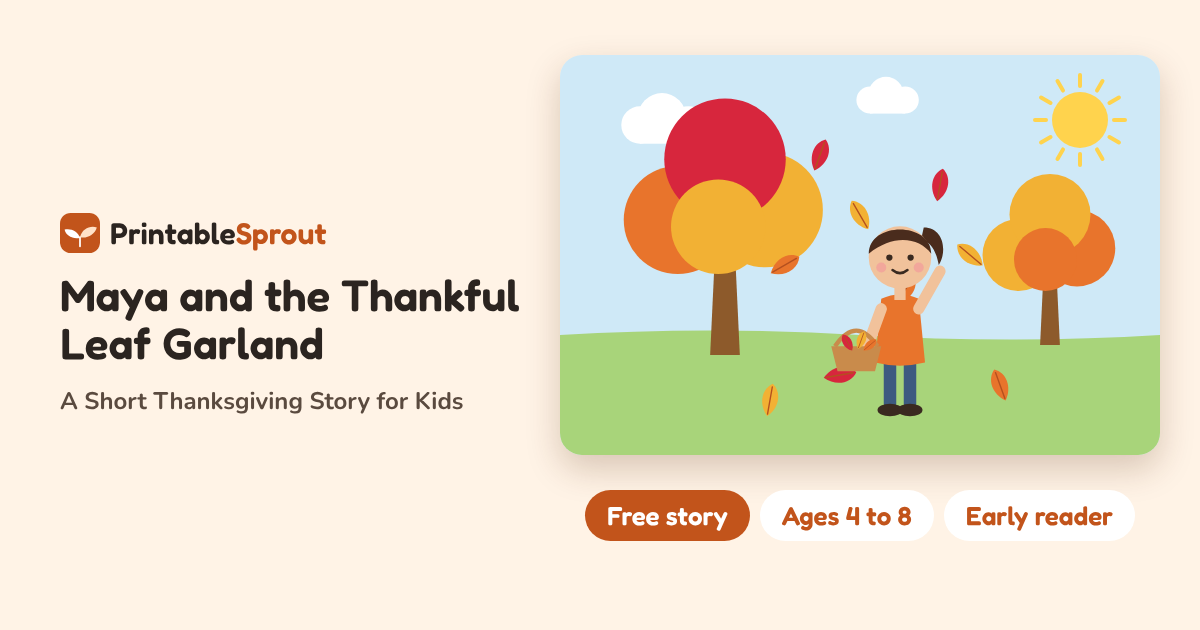
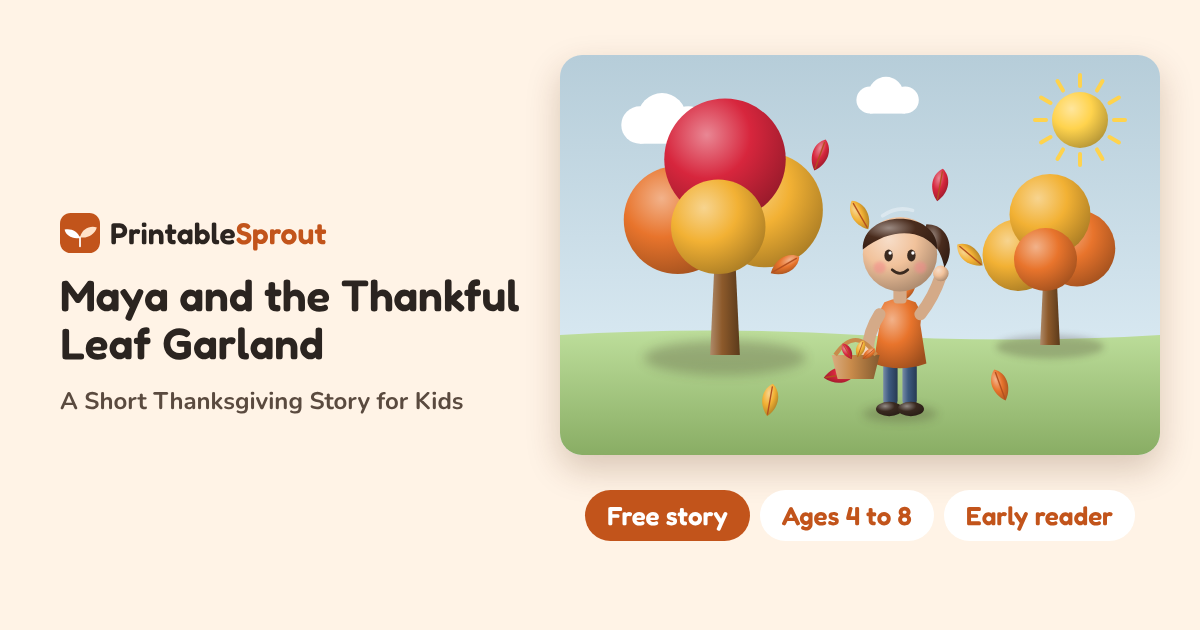
Stories: Read Story button, 3D illustrations; nav fits with Stories
Claude-Session: https://claude.ai/code/session_01E7SCfQzYAY4G8NSMut9oC8

Changed region(s): [[0.4625, 0.0603, 0.9867, 0.7238], [0.8325, 0.6032, 0.8633, 0.6333], [0.7708, 0.2714, 0.8017, 0.3016]]

diff --git a/src/styles/global.css b/src/styles/global.css
@@ -38,7 +38,8 @@ body { padding-top: var(--hh); }
 .nav-drop a:hover { background: var(--accent-soft); }
 .icon-btn { width: 44px; height: 44px; display: inline-flex; align-items: center; justify-content: center; border: 1px solid var(--line2); border-radius: 22px; background: var(--white); color: var(--ink); cursor: pointer; flex: none; }
 .menu-btn { display: none; }
-@media (max-width: 900px) {
+@media (min-width: 1021px) and (max-width: 1180px) { .main-nav { gap: 14px; font-size: 14px; } .logo { font-size: 22px; } .logo-mark { width: 30px; height: 30px; } }
+@media (max-width: 1020px) {
   .menu-btn { display: inline-flex; }
   .main-nav { display: none; position: absolute; left: 0; right: 0; top: 100%; background: var(--white); flex-direction: column; flex-wrap: nowrap; align-items: stretch; gap: 4px; padding: 12px 24px 18px; border-bottom: 1px solid var(--line); max-height: calc(100vh - var(--hh)); max-height: calc(100dvh - var(--hh)); overflow-y: auto; overscroll-behavior: contain; box-shadow: 0 10px 20px rgba(60,40,20,.10); }
   body.nav-open .main-nav { display: flex; }
@@ -212,3 +213,12 @@ body { padding-top: var(--hh); }
 .story-card-body h2, .story-card-body h3 { margin: 0 0 6px; font-size: 20px; }
 .story-card-body p { margin: 0 0 10px; font-size: 15px; color: var(--soft); }
 @media print { .hero-name, .share, .more-stories { display: none !important; } }
+/* read aloud */
+.read-aloud { display: flex; gap: 10px; align-items: center; margin: 0 0 22px; }
+.read-btn { display: inline-flex; align-items: center; gap: 10px; font: inherit; font-weight: 800; font-size: 18px; color: var(--accent-dark, #a4430f); background: #fff1e3; border: 2px solid #f3cfae; border-radius: 999px; padding: 12px 24px 12px 18px; cursor: pointer; transition: background .15s, transform .15s; }
+.read-btn:hover { background: #ffe6cf; transform: translateY(-1px); }
+.read-btn.on { background: #ffe1c7; border-color: #e9a874; }
+.stop-btn { font: inherit; font-weight: 700; font-size: 16px; color: var(--soft); background: none; border: 0; padding: 12px; cursor: pointer; text-decoration: underline; }
+.story-body .reading { background: #fff1c4; border-radius: 8px; box-shadow: 0 0 0 6px #fff1c4; transition: background .2s; }
+.story-title.reading { background: #fff1c4; border-radius: 8px; }
+@media print { .read-aloud { display: none !important; } }

diff --git a/scripts/stories/kit.py b/scripts/stories/kit.py
@@ -10,17 +10,49 @@ Characters are simple and friendly: round heads, dot eyes, rosy cheeks. Never dr
 brands or real people. Keep the same colors for a character in every picture of one story.
 """
 import math, os
+
+STYLE = {'mode': '3d'}   # '3d' = soft shaded toy look (default), 'flat' = plain flat colors
+_DEFS = {}
+
+def _mix(c, t):
+    """Lighten (t>0) or darken (t<0) a #rrggbb color."""
+    r, g_, b = (int(c[i:i+2], 16) for i in (1, 3, 5))
+    f = (lambda v: v + (255 - v) * t) if t > 0 else (lambda v: v * (1 + t))
+    return '#%02x%02x%02x' % tuple(max(0, min(255, int(f(v)))) for v in (r, g_, b))
+
+def F(c, kind='ball'):
+    """Fill for a shape: a shaded gradient in 3d mode. kind: ball (round, light from top left), cyl (left to right), vert (top to bottom)."""
+    if STYLE['mode'] != '3d' or not c.startswith('#') or len(c) != 7: return c
+    gid = f'{kind}{c[1:]}'
+    if gid not in _DEFS:
+        if kind == 'ball':
+            _DEFS[gid] = f'<radialGradient id="{gid}" cx="35%" cy="30%" r="80%"><stop offset="0" stop-color="{_mix(c, .45)}"/><stop offset=".45" stop-color="{c}"/><stop offset="1" stop-color="{_mix(c, -.32)}"/></radialGradient>'
+        elif kind == 'cyl':
+            _DEFS[gid] = f'<linearGradient id="{gid}" x1="0" x2="1"><stop offset="0" stop-color="{_mix(c, .3)}"/><stop offset=".4" stop-color="{c}"/><stop offset="1" stop-color="{_mix(c, -.35)}"/></linearGradient>'
+        elif kind == 'sky':
+            _DEFS[gid] = f'<linearGradient id="{gid}" x1="0" y1="0" x2="0" y2="1"><stop offset="0" stop-color="{_mix(c, -.12)}"/><stop offset="1" stop-color="{_mix(c, .45)}"/></linearGradient>'
+        else:
+            _DEFS[gid] = f'<linearGradient id="{gid}" x1="0" y1="0" x2="0" y2="1"><stop offset="0" stop-color="{_mix(c, .25)}"/><stop offset="1" stop-color="{_mix(c, -.18)}"/></linearGradient>'
+    return f'url(#{gid})'
+
+def shadow(x, y, rx=60, ry=None, o=.25):
+    """Soft ground shadow under a character or object (3d mode only)."""
+    if STYLE['mode'] != '3d': return ''
+    return f'<ellipse cx="{x}" cy="{y}" rx="{rx}" ry="{ry or rx*0.22:.0f}" fill="#3a2a20" opacity="{o}" filter="url(#soft)"/>'
+
 ROOT = os.path.abspath(os.path.join(os.path.dirname(__file__), '..', '..'))
 INK = '#3a2a20'
 
 class Scene:
     def __init__(self, sky='#cfe9f7', w=1200, h=800, bg=None):
-        self.w, self.h, self.parts = w, h, [f'<rect width="{w}" height="{h}" fill="{bg or sky}"/>']
+        _DEFS.clear()
+        self.w, self.h, self.parts = w, h, [f'<rect width="{w}" height="{h}" fill="{F(bg or sky, "sky")}"/>']
     def add(self, *svg):
         self.parts.extend(svg); return self
     def svg(self, title=''):
         t = f'<title>{title}</title>' if title else ''
-        return f'<svg xmlns="http://www.w3.org/2000/svg" viewBox="0 0 {self.w} {self.h}" role="img">{t}' + ''.join(self.parts) + '</svg>'
+        defs = '<defs><filter id="soft" x="-50%" y="-50%" width="200%" height="200%"><feGaussianBlur stdDeviation="8"/></filter><filter id="blush" x="-50%" y="-50%" width="200%" height="200%"><feGaussianBlur stdDeviation="2.5"/></filter>' + ''.join(_DEFS.values()) + '</defs>'
+        return f'<svg xmlns="http://www.w3.org/2000/svg" viewBox="0 0 {self.w} {self.h}" role="img">{t}{defs}' + ''.join(self.parts) + '</svg>'
     def save(self, slug, n, title=''):
         d = os.path.join(ROOT, 'public/stories', slug); os.makedirs(d, exist_ok=True)
         p = os.path.join(d, f'{n}.svg'); open(p, 'w').write(self.svg(title)); return p
@@ -29,61 +61,76 @@ def g(inner, x=0, y=0, s=1, r=0):
     return f'<g transform="translate({x},{y}) rotate({r}) scale({s})">{inner}</g>'
 
 def ground(color='#9ccf6e', y=560, w=1200, h=800, wave=18):
-    return f'<path d="M0 {y} Q {w*0.25} {y-wave} {w*0.5} {y} T {w} {y} V {h} H 0 Z" fill="{color}"/>'
+    return f'<path d="M0 {y} Q {w*0.25} {y-wave} {w*0.5} {y} T {w} {y} V {h} H 0 Z" fill="{F(color, "vert")}"/>'
 
 def sun(x, y, r=60, color='#ffd34d'):
     rays = ''.join(f'<line x1="{x+math.cos(a)*(r+12):.1f}" y1="{y+math.sin(a)*(r+12):.1f}" x2="{x+math.cos(a)*(r+34):.1f}" y2="{y+math.sin(a)*(r+34):.1f}" stroke="{color}" stroke-width="8" stroke-linecap="round"/>' for a in [i*math.pi/6 for i in range(12)])
-    return rays + f'<circle cx="{x}" cy="{y}" r="{r}" fill="{color}"/>'
+    return rays + f'<circle cx="{x}" cy="{y}" r="{r}" fill="{F(color)}"/>'
 
 def cloud(x, y, s=1, color='#ffffff'):
     return g(f'<g fill="{color}"><circle cx="0" cy="0" r="34"/><circle cx="40" cy="-14" r="44"/><circle cx="88" cy="0" r="34"/><rect x="0" y="0" width="88" height="34"/></g>', x, y, s)
 
 def leaf(x, y, s=1, r=0, color='#e8742c', vein='#b4501f'):
-    return g(f'<path d="M0 -30 C 18 -18 20 10 0 30 C -20 10 -18 -18 0 -30 Z" fill="{color}"/><path d="M0 -24 V 26" stroke="{vein}" stroke-width="2.5" stroke-linecap="round"/>', x, y, s, r)
+    return g(f'<path d="M0 -30 C 18 -18 20 10 0 30 C -20 10 -18 -18 0 -30 Z" fill="{F(color)}"/><path d="M0 -24 V 26" stroke="{vein}" stroke-width="2.5" stroke-linecap="round"/>', x, y, s, r)
 
 def tree(x, base, s=1, crown=('#e8742c', '#f2b134', '#d7263d'), trunk='#8d5a2b'):
     c = crown
-    inner = (f'<path d="M-22 0 L-14 -170 L14 -170 L22 0 Z" fill="{trunk}"/>'
-             f'<circle cx="-70" cy="-200" r="80" fill="{c[0]}"/><circle cx="60" cy="-215" r="85" fill="{c[1]}"/>'
-             f'<circle cx="0" cy="-290" r="90" fill="{c[2]}"/><circle cx="-10" cy="-190" r="70" fill="{c[1]}"/>')
+    inner = (shadow(0, 4, 120) + f'<path d="M-22 0 L-14 -170 L14 -170 L22 0 Z" fill="{F(trunk, "cyl")}"/>'
+             f'<circle cx="-70" cy="-200" r="80" fill="{F(c[0])}"/><circle cx="60" cy="-215" r="85" fill="{F(c[1])}"/>'
+             f'<circle cx="0" cy="-290" r="90" fill="{F(c[2])}"/><circle cx="-10" cy="-190" r="70" fill="{F(c[1])}"/>')
     return g(inner, x, base, s)
 
+def _eyes(y, dx=19, rx=7, ry=10):
+    hl = '' if STYLE['mode'] != '3d' else f'<circle cx="{-dx+2.5}" cy="{y-4}" r="2.8" fill="#fff"/><circle cx="{dx+2.5}" cy="{y-4}" r="2.8" fill="#fff"/>'
+    return f'<ellipse cx="{-dx}" cy="{y}" rx="{rx}" ry="{ry}" fill="{INK}"/><ellipse cx="{dx}" cy="{y}" rx="{rx}" ry="{ry}" fill="{INK}"/>' + hl
+
+def _cheeks(y, dx=34, r=10):
+    f = ' filter="url(#blush)"' if STYLE['mode'] == '3d' else ''
+    return f'<circle cx="{-dx}" cy="{y}" r="{r}" fill="#f28b8b" opacity=".55"{f}/><circle cx="{dx}" cy="{y}" r="{r}" fill="#f28b8b" opacity=".55"{f}/>'
+
+def _shine(y, r):
+    if STYLE['mode'] != '3d': return ''
+    return f'<path d="M{-r*0.55:.0f} {y-r*0.62:.0f} Q {-r*0.1:.0f} {y-r*0.95:.0f} {r*0.4:.0f} {y-r*0.78:.0f}" stroke="#fff" stroke-width="6" fill="none" stroke-linecap="round" opacity=".35"/>'
+
 def kid(x, base, s=1, skin='#f1c29b', hair='#4a2c1d', shirt='#e8742c', pants='#3d5a80', shoes='#3a2a20', bun=False, pony=True, arm_up=False, holding=''):
-    """A child standing; base = y of the feet. About 330 px tall at s=1."""
-    pony_svg = f'<path d="M38 -300 C 70 -300 76 -262 62 -240 C 58 -262 50 -276 34 -282 Z" fill="{hair}"/>' if pony else ''
-    arm_r = (f'<path d="M30 -170 L64 -230" stroke="{skin}" stroke-width="18" stroke-linecap="round"/>' if arm_up
-             else f'<path d="M30 -170 L52 -110" stroke="{skin}" stroke-width="18" stroke-linecap="round"/>')
-    inner = (f'<rect x="-26" y="-90" width="20" height="80" rx="9" fill="{pants}"/><rect x="6" y="-90" width="20" height="80" rx="9" fill="{pants}"/>'
-             f'<ellipse cx="-16" cy="-8" rx="20" ry="10" fill="{shoes}"/><ellipse cx="16" cy="-8" rx="20" ry="10" fill="{shoes}"/>'
-             f'<path d="M-30 -110 Q 0 -100 30 -110" stroke="{pants}" stroke-width="0"/>'
-             f'<path d="M-30 -186 Q 0 -200 30 -186 L 40 -84 Q 0 -74 -40 -84 Z" fill="{shirt}"/>'
-             f'<path d="M-30 -170 L-52 -110" stroke="{skin}" stroke-width="18" stroke-linecap="round"/>{arm_r}'
-             f'<rect x="-9" y="-206" width="18" height="22" fill="{skin}"/>'
-             f'{pony_svg}<circle cx="0" cy="-252" r="50" fill="{skin}"/>'
-             f'<path d="M-50 -258 C -50 -310 50 -310 50 -258 C 30 -284 -10 -290 -50 -258 Z" fill="{hair}"/>'
-             + (f'<circle cx="0" cy="-312" r="20" fill="{hair}"/>' if bun else '') +
-             f'<circle cx="-17" cy="-252" r="5" fill="{INK}"/><circle cx="17" cy="-252" r="5" fill="{INK}"/>'
-             f'<circle cx="-30" cy="-236" r="8" fill="#f29b9b" opacity=".7"/><circle cx="30" cy="-236" r="8" fill="#f29b9b" opacity=".7"/>'
-             f'<path d="M-12 -232 Q 0 -222 12 -232" stroke="{INK}" stroke-width="4" fill="none" stroke-linecap="round"/>{holding}')
+    """A child standing, toy-like proportions (big head); base = y of the feet. About 340 px tall at s=1."""
+    dk = _mix(skin, -.12) if skin.startswith('#') else skin
+    pony_svg = f'<path d="M44 -318 C 84 -318 92 -272 74 -246 C 68 -272 58 -290 38 -298 Z" fill="{F(hair)}"/>' if pony else ''
+    arm_r = (f'<path d="M34 -168 Q 56 -196 68 -232" stroke="{dk}" stroke-width="20" fill="none" stroke-linecap="round"/><circle cx="68" cy="-236" r="13" fill="{F(skin)}"/>' if arm_up
+             else f'<path d="M34 -168 Q 52 -140 54 -108" stroke="{dk}" stroke-width="20" fill="none" stroke-linecap="round"/><circle cx="54" cy="-104" r="13" fill="{F(skin)}"/>')
+    inner = (shadow(0, -2, 62) +
+             f'<rect x="-28" y="-92" width="24" height="80" rx="12" fill="{F(pants, "cyl")}"/><rect x="4" y="-92" width="24" height="80" rx="12" fill="{F(pants, "cyl")}"/>'
+             f'<ellipse cx="-18" cy="-10" rx="22" ry="12" fill="{F(shoes)}"/><ellipse cx="18" cy="-10" rx="22" ry="12" fill="{F(shoes)}"/>'
+             f'<path d="M-34 -150 Q -38 -170 -26 -188 Q 0 -200 26 -188 Q 38 -170 34 -150 L 44 -86 Q 0 -70 -44 -86 Z" fill="{F(shirt)}"/>'
+             f'<path d="M-34 -168 Q -52 -140 -54 -108" stroke="{dk}" stroke-width="20" fill="none" stroke-linecap="round"/><circle cx="-54" cy="-104" r="13" fill="{F(skin)}"/>{arm_r}'
+             f'<rect x="-11" y="-212" width="22" height="26" rx="6" fill="{dk}"/>'
+             f'{pony_svg}<circle cx="0" cy="-268" r="62" fill="{F(skin)}"/>'
+             f'<path d="M-62 -276 C -64 -344 64 -344 62 -276 C 40 -308 -12 -316 -62 -276 Z" fill="{F(hair)}"/>' + _shine(-300, 52)
+             + (f'<circle cx="0" cy="-338" r="24" fill="{F(hair)}"/>' if bun else '')
+             + _eyes(-266) + _cheeks(-246) +
+             f'<path d="M-13 -242 Q 0 -230 13 -242" stroke="{INK}" stroke-width="4.5" fill="none" stroke-linecap="round"/>{holding}')
     return g(inner, x, base, s)
 
 def grown_up(x, base, s=1, skin='#e7b48c', hair='#b9b4ae', top='#8e6bbf', skirt='#5b4a7a', glasses=True, bun=True):
-    """A grown up (grandparent or parent); about 430 px tall at s=1."""
-    inner = (f'<rect x="-30" y="-120" width="24" height="112" rx="10" fill="{skirt}"/><rect x="6" y="-120" width="24" height="112" rx="10" fill="{skirt}"/>'
-             f'<ellipse cx="-18" cy="-8" rx="24" ry="11" fill="{INK}"/><ellipse cx="18" cy="-8" rx="24" ry="11" fill="{INK}"/>'
-             f'<path d="M-44 -250 Q 0 -266 44 -250 L 56 -110 Q 0 -98 -56 -110 Z" fill="{top}"/>'
-             f'<path d="M-44 -236 L-66 -150" stroke="{skin}" stroke-width="20" stroke-linecap="round"/><path d="M44 -236 L66 -150" stroke="{skin}" stroke-width="20" stroke-linecap="round"/>'
-             f'<rect x="-10" y="-272" width="20" height="24" fill="{skin}"/><circle cx="0" cy="-322" r="54" fill="{skin}"/>'
-             f'<path d="M-54 -326 C -54 -386 54 -386 54 -326 C 34 -354 -14 -358 -54 -326 Z" fill="{hair}"/>'
-             + (f'<circle cx="0" cy="-384" r="22" fill="{hair}"/>' if bun else '') +
-             (f'<circle cx="-19" cy="-322" r="13" fill="none" stroke="{INK}" stroke-width="3"/><circle cx="19" cy="-322" r="13" fill="none" stroke="{INK}" stroke-width="3"/><path d="M-6 -322 H 6" stroke="{INK}" stroke-width="3"/>' if glasses else '') +
-             f'<circle cx="-19" cy="-322" r="4" fill="{INK}"/><circle cx="19" cy="-322" r="4" fill="{INK}"/>'
-             f'<circle cx="-34" cy="-304" r="8" fill="#f29b9b" opacity=".6"/><circle cx="34" cy="-304" r="8" fill="#f29b9b" opacity=".6"/>'
-             f'<path d="M-14 -298 Q 0 -286 14 -298" stroke="{INK}" stroke-width="4" fill="none" stroke-linecap="round"/>')
+    """A grown up (grandparent or parent); about 440 px tall at s=1."""
+    dk = _mix(skin, -.12) if skin.startswith('#') else skin
+    inner = (shadow(0, -2, 74) +
+             f'<rect x="-32" y="-122" width="28" height="112" rx="13" fill="{F(skirt, "cyl")}"/><rect x="4" y="-122" width="28" height="112" rx="13" fill="{F(skirt, "cyl")}"/>'
+             f'<ellipse cx="-20" cy="-10" rx="26" ry="12" fill="{F(INK)}"/><ellipse cx="20" cy="-10" rx="26" ry="12" fill="{F(INK)}"/>'
+             f'<path d="M-46 -230 Q -48 -252 -30 -262 Q 0 -272 30 -262 Q 48 -252 46 -230 L 58 -112 Q 0 -96 -58 -112 Z" fill="{F(top)}"/>'
+             f'<path d="M-46 -236 Q -66 -196 -66 -152" stroke="{dk}" stroke-width="22" fill="none" stroke-linecap="round"/><circle cx="-66" cy="-146" r="14" fill="{F(skin)}"/>'
+             f'<path d="M46 -236 Q 66 -196 66 -152" stroke="{dk}" stroke-width="22" fill="none" stroke-linecap="round"/><circle cx="66" cy="-146" r="14" fill="{F(skin)}"/>'
+             f'<rect x="-12" y="-286" width="24" height="28" rx="6" fill="{dk}"/><circle cx="0" cy="-334" r="60" fill="{F(skin)}"/>'
+             f'<path d="M-60 -338 C -62 -404 62 -404 60 -338 C 38 -370 -14 -376 -60 -338 Z" fill="{F(hair)}"/>' + _shine(-362, 50)
+             + (f'<circle cx="0" cy="-402" r="26" fill="{F(hair)}"/>' if bun else '')
+             + _eyes(-332, 21, 6, 8) +
+             (f'<circle cx="-21" cy="-332" r="15" fill="none" stroke="{INK}" stroke-width="3"/><circle cx="21" cy="-332" r="15" fill="none" stroke="{INK}" stroke-width="3"/><path d="M-6 -332 H 6" stroke="{INK}" stroke-width="3"/>' if glasses else '')
+             + _cheeks(-308, 38, 11) +
+             f'<path d="M-15 -304 Q 0 -290 15 -304" stroke="{INK}" stroke-width="4.5" fill="none" stroke-linecap="round"/>')
     return g(inner, x, base, s)
 
 def basket(color='#c98b4b'):
-    return (f'<path d="M-40 0 H 40 L 30 40 H -30 Z" fill="{color}"/><path d="M-34 0 Q 0 -50 34 0" stroke="{color}" stroke-width="7" fill="none"/>'
+    return (f'<path d="M-40 0 H 40 L 30 40 H -30 Z" fill="{F(color, "cyl")}"/><path d="M-34 0 Q 0 -50 34 0" stroke="{color}" stroke-width="7" fill="none"/>'
             + leaf(-14, -6, .5, -30, '#d7263d') + leaf(8, -10, .5, 20, '#f2b134') + leaf(22, -2, .45, 50, '#e8742c'))
 
 def garland(x1, y1, x2, y2, sag=60, colors=('#d7263d', '#f2b134', '#e8742c', '#7cb342'), n=9):
@@ -95,8 +142,9 @@ def garland(x1, y1, x2, y2, sag=60, colors=('#d7263d', '#f2b134', '#e8742c', '#7
     return out
 
 def table(x, y, w, color='#b97a45', top='#d39a62'):
-    return (f'<rect x="{x}" y="{y}" width="{w}" height="28" rx="8" fill="{top}"/>'
-            f'<rect x="{x+30}" y="{y+28}" width="24" height="200" fill="{color}"/><rect x="{x+w-54}" y="{y+28}" width="24" height="200" fill="{color}"/>')
+    return (shadow(x + w / 2, y + 228, w * 0.55, 18, .18) +
+            f'<rect x="{x+30}" y="{y+28}" width="24" height="200" fill="{F(color, "cyl")}"/><rect x="{x+w-54}" y="{y+28}" width="24" height="200" fill="{F(color, "cyl")}"/>'
+            f'<rect x="{x}" y="{y}" width="{w}" height="30" rx="10" fill="{F(top, "vert")}"/><rect x="{x}" y="{y+22}" width="{w}" height="10" rx="5" fill="{_mix(top, -.2)}"/>')
 
 def window(x, y, w=260, h=220, frame='#ffffff', view='#bfe3f5'):
     return (f'<rect x="{x}" y="{y}" width="{w}" height="{h}" rx="12" fill="{frame}"/><rect x="{x+14}" y="{y+14}" width="{w-28}" height="{h-28}" rx="6" fill="{view}"/>'

diff --git a/scripts/stories/maya-thankful-leaf-garland.py b/scripts/stories/maya-thankful-leaf-garland.py
@@ -1,0 +1,28 @@
+import sys; sys.path.insert(0, 'scripts/stories'); from kit import *
+SLUG = 'maya-thankful-leaf-garland'
+MAYA = dict(shirt='#e8742c', pants='#3d5a80', hair='#4a2c1d', skin='#f1c29b')
+SAM = dict(shirt='#4fc3f7', pants='#5b6b7a', hair='#8d5a2b', skin='#f1c29b', pony=False)
+# 1. Collecting leaves under the big tree
+s = Scene(sky='#cfe9f7')
+s.add(sun(1040, 130, 56), cloud(160, 140, 1.1), cloud(620, 90, .8))
+s.add(ground('#a8d47a', 560), tree(330, 600, 1.35), tree(980, 580, .9, ('#f2b134', '#e8742c', '#f2b134')))
+for x, y, r, c in [(520, 200, 20, '#d7263d'), (600, 320, -30, '#f2b134'), (450, 420, 60, '#e8742c'), (760, 260, 10, '#d7263d'), (820, 400, -50, '#f2b134'), (690, 470, 35, '#e8742c'), (560, 640, 80, '#d7263d'), (880, 660, -20, '#e8742c'), (420, 690, 10, '#f2b134')]:
+    s.add(leaf(x, y, 1.1, r, c))
+s.add(kid(680, 720, 1.2, arm_up=True, holding=g(basket(), -74, -100, 1), **MAYA))
+s.save(SLUG, 1, 'Maya collecting autumn leaves in a basket under a big orange tree')
+# 2. Writing thank yous on leaves at the kitchen table
+s = Scene(bg='#fbe7cf')
+s.add('<rect y="600" width="1200" height="200" fill="%s"/>' % F('#e9c9a3', 'vert'), window(820, 90), tree(950, 300, .5))
+s.add(kid(430, 700, 1.05, **MAYA), kid(800, 700, .9, **SAM))
+s.add(table(180, 540, 860))
+for i, (c, r) in enumerate([('#d7263d', 10), ('#f2b134', -20), ('#e8742c', 30), ('#7cb342', -10), ('#d7263d', 25), ('#f2b134', 0)]):
+    s.add(leaf(300 + i * 110, 528, 1.1, 90 + r, c))
+s.add('<path d="M260 568 Q 600 600 960 566" stroke="#8d5a2b" stroke-width="4" fill="none"/>', '<rect x="520" y="512" width="90" height="16" rx="6" fill="#1e5aa8" transform="rotate(-12 565 520)"/>')
+s.save(SLUG, 2, 'Maya and her little brother Sam writing thank yous on leaves at the kitchen table')
+# 3. Grandma reads the garland over the Thanksgiving table
+s = Scene(bg='#f7dcc0')
+s.add('<rect y="620" width="1200" height="180" fill="%s"/>' % F('#d9a979', 'vert'), garland(60, 70, 1140, 70, 110))
+s.add(grown_up(330, 720, 1.0), kid(760, 720, 1.0, arm_up=True, **MAYA), kid(980, 720, .85, **SAM))
+s.add(table(140, 560, 920), pie(600, 545, 1.1))
+s.save(SLUG, 3, 'Grandma smiling at the thankful leaf garland over the Thanksgiving table with Maya and Sam')
+print('ok')
